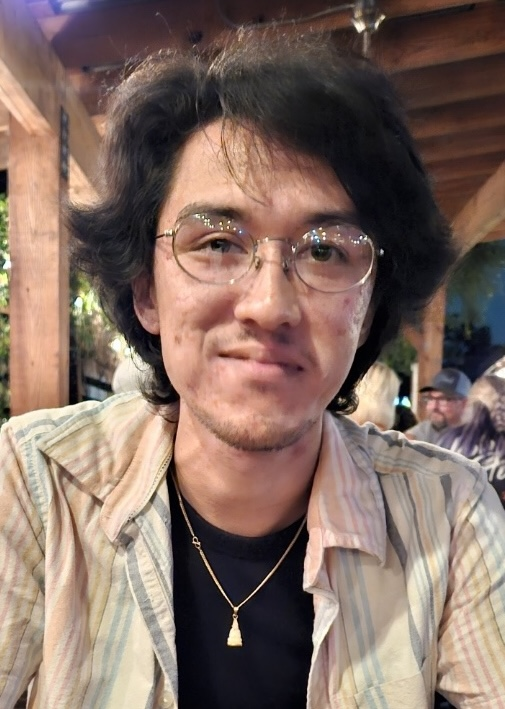
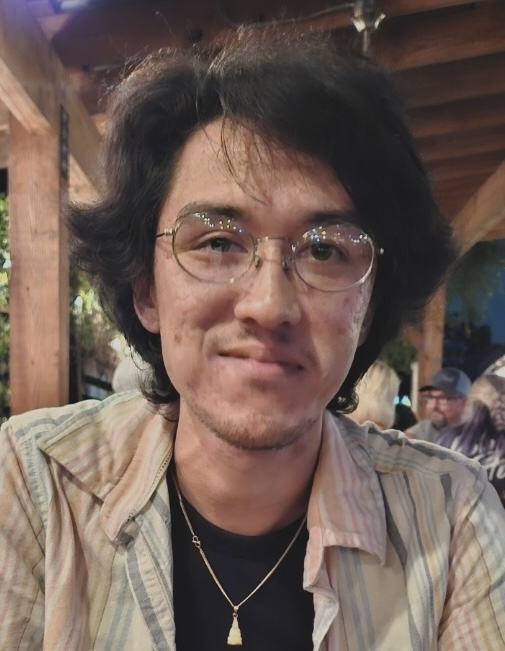
Added photo and changed how familiar technologies are displayed.

diff --git a/src/components/AboutMe/AboutMe.tsx b/src/components/AboutMe/AboutMe.tsx
@@ -1,4 +1,4 @@
-import { Container, MantineComponent, Title, Text, Accordion } from '@mantine/core';
+import { Container, MantineComponent, Title, Text, Accordion, Group, Image, Stack, List, ListItem } from '@mantine/core';
 import { forwardRef } from 'react';
 import classes from './AboutMe.module.css';
 import IconAccordion from '../IconAccordion/IconAccordion';
@@ -9,11 +9,53 @@ interface AboutMeProps {
 }
 
 const AboutMe = forwardRef<MantineComponent<any>, AboutMeProps>((props, aboutRef) => {
+    const techItems = [
+        "React",
+        "HTML5",
+        "TypeScript",
+        "CSS3",
+        "Mantine",
+        "C++",
+        "Java",
+        "MongoDB",
+        "MySQL",
+        "Git",
+    ];
+
+    const techItemArrays: JSX.Element[][] = [
+        techItems.slice(0, techItems.length / 2).map((tech, i) => (
+            <ListItem key={i}>{tech}</ListItem>
+        )),
+        techItems.slice(techItems.length / 2).map((tech, i) => (
+            <ListItem key={i}>{tech}</ListItem>
+        )),
+    ];
+
+    const techLists: JSX.Element[] = [
+        <List className={classes.techList}>
+            {techItemArrays[0]}
+        </List>,
+        <List className={classes.techList}>
+            {techItemArrays[1]}
+        </List>,
+    ];
+
     return (
-        <Container mih={'100vh'} pt={`calc(${props.headerHeight}px + 1vh`} px={0} ml={0} ref={aboutRef}>
+        <Container className={classes.root} mih={'100vh'} pt={`calc(${props.headerHeight}px + 1vh`} px={0} ml={0} ref={aboutRef}>
             <Title order={2} className={classes.title}>About Me</Title>
-            <Text>This is the About Me section of the portfolio.</Text>
-            <IconAccordion/>
+            <Group align='flex-start'>
+                <Stack>
+                    <Text>This is the About Me section of the portfolio.</Text>
+                    {/* <IconAccordion/> */}
+                    <Container>
+                        <Text style={{textAlign: 'center', fontSize: '1.1rem'}}>Here's some technologies that I'm proficient in.</Text>
+                        <Group className={classes.techGroup}>
+                            {techLists}
+                        </Group>
+                    </Container>
+                </Stack>
+                <Image src='self-portrait.jpg' className={classes.selfImage}/>
+            </Group>
         </Container>
     );
 });

diff --git a/src/components/AboutMe/AboutMe.module.css b/src/components/AboutMe/AboutMe.module.css
@@ -11,3 +11,40 @@
 .mantine-SimpleGrid-root {
     justify-content: center;
 }
+
+.root {
+    @media (max-width: 62em) {
+        /* min-width: 90vw; */
+        width: auto;
+        /* padding: 0 1vw !important; */
+        /* width: 100vw; */
+    }
+    @media (min-width: 62em) {
+        min-width: 90vw;
+        /* padding: 0 1vw !important; */
+        /* width: 100vw; */
+    }
+}
+
+.selfImage {
+    border-radius: 10px;
+    width: 25%;
+    margin: 0 auto;
+    display: block;
+
+    @media (max-width: 62em) {
+        width: 70%;
+    }
+    @media (min-width: 62em) {
+        width: 25%;
+    }
+}
+
+.techGroup {
+    display: flex;
+    justify-content: space-evenly;
+}
+
+.techList {
+    color: var(--text-color);
+}
